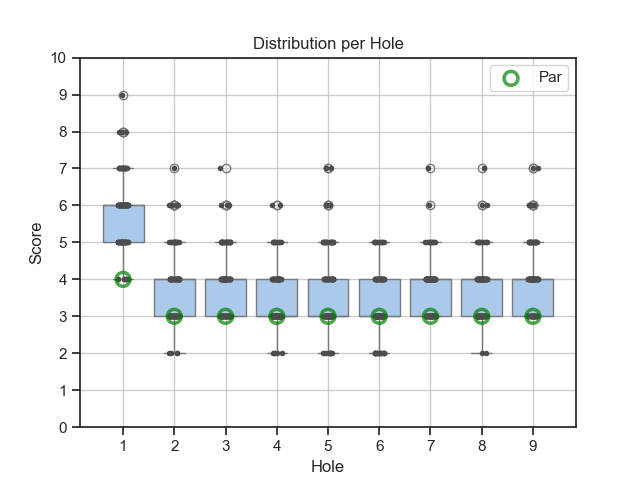
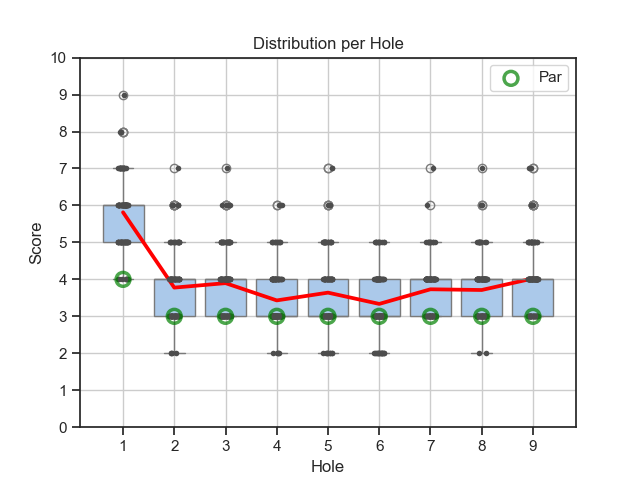
Hole ditribution: Add line for average for each hole

diff --git a/udisc_analysis.py b/udisc_analysis.py
@@ -327,6 +327,17 @@ def plot_hole_distribution(df, par_df, output_path, hide_par):
     # Plot all individual attempts
     sns.stripplot(data=df, x="Hole", y="Score", size=4, color=".3")
 
+    # Plot average score per hole as a line
+    sns.pointplot(
+        x="Hole",
+        y="Score",
+        data=df,
+        estimator="mean",
+        errorbar=None,
+        color="red",
+        marker=""
+    )
+
     # Plot par
     if not hide_par:
         sns.scatterplot(
